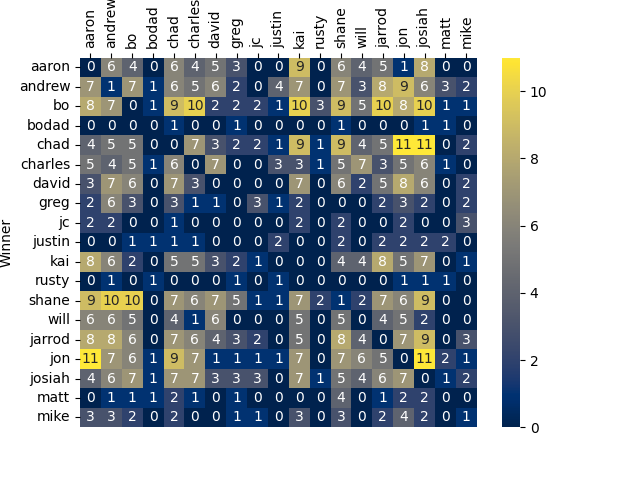
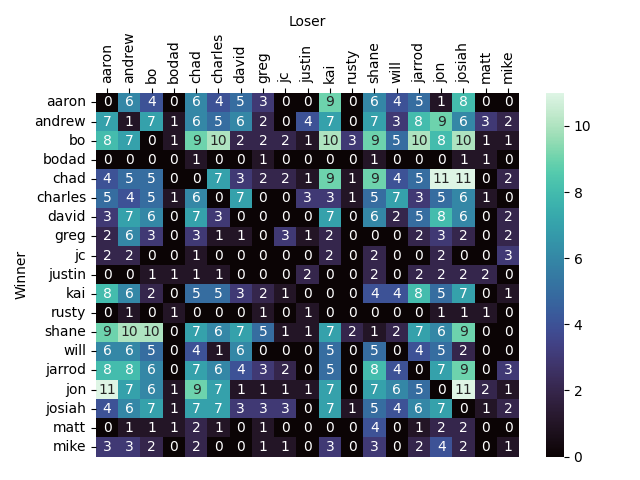
modify analyses, update standings view

diff --git a/6-analysis.py b/6-analysis.py
@@ -105,8 +105,9 @@ nms = hier_df.indices
 nms_short = [re.split('[ _]', x)[0].lower() for x in nms]
 
 # BUG fix this- not working now
-fig, ax = plt.subplots()
-ax = sns.heatmap(hier_df.mat, cmap='cividis', annot=True, fmt=".0f", xticklabels=nms_short, yticklabels=nms_short, ax=ax)
+
+fig, ax = plt.subplots(tight_layout=True)
+ax = sns.heatmap(hier_df.mat, cmap='mako', annot=True, fmt=".0f", xticklabels=nms_short, yticklabels=nms_short, ax=ax)
 ax.xaxis.set_ticks_position('top')  # Move x-axis labels to the top
 ax.xaxis.set_label_position('top')  # Move x-axis labels to the top
 ax.tick_params(axis='x', rotation=90)
